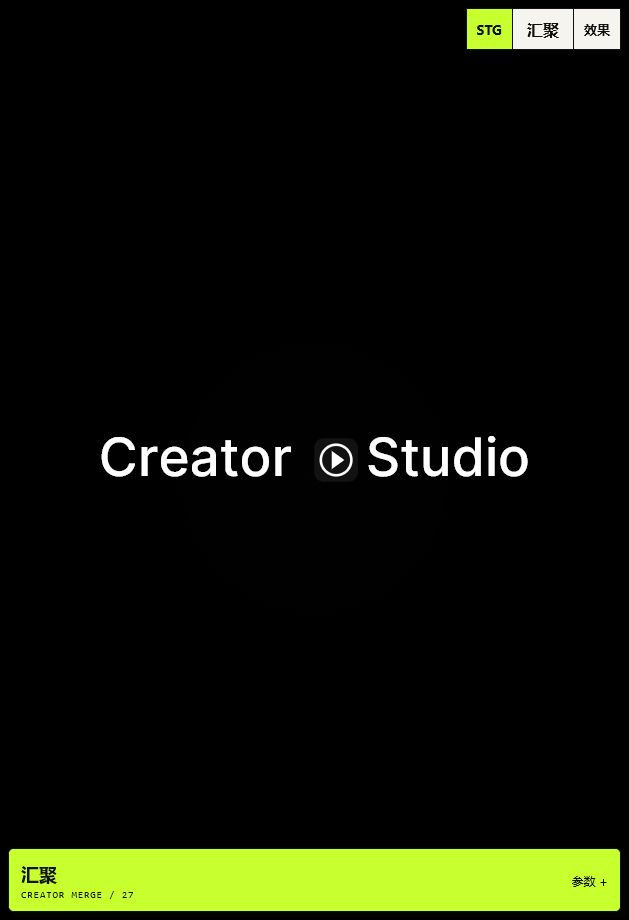
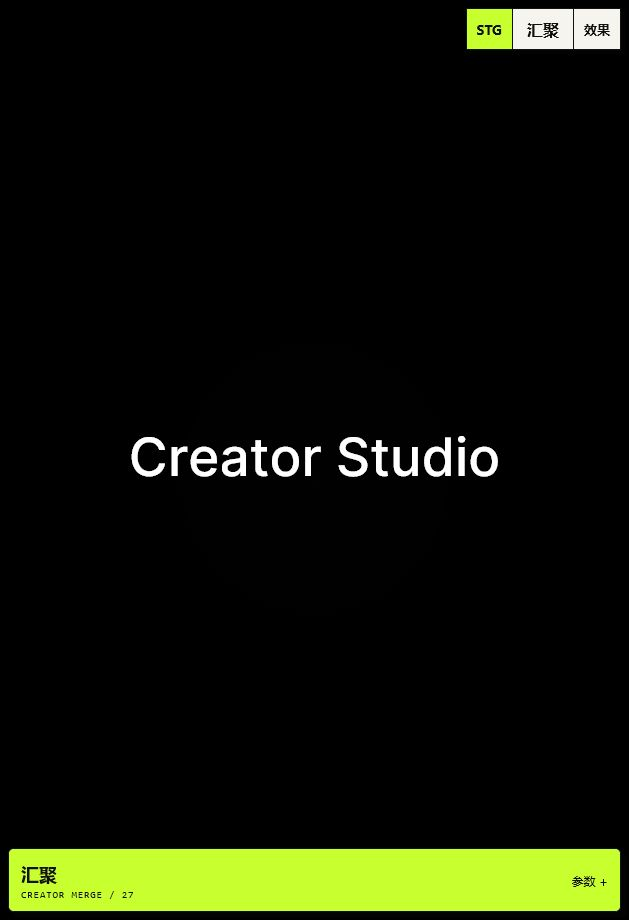
Add editable ticker speed timeline

Changed region(s): [[0.151, 0.4565, 0.8458, 0.5174]]

diff --git a/site/creatorstudio.js b/site/creatorstudio.js
@@ -14,11 +14,15 @@
     scrollSpeed: $("#scrollSpeed"), settleDuration: $("#settleDuration"),
     glitchDuration: $("#glitchDuration"), finalDuration: $("#finalDuration"),
     activeScale: $("#activeScale"), inactiveScale: $("#inactiveScale"),
-    inactiveOpacity: $("#inactiveOpacity"), scrollEase: $("#scrollEase"),
+    inactiveOpacity: $("#inactiveOpacity"),
     fragmentStrength: $("#fragmentStrength"), fragmentJitter: $("#fragmentJitter"),
     assetItemScale: $("#assetItemScale"),
     assetOffsetX: $("#assetOffsetX"), assetOffsetY: $("#assetOffsetY")
   };
+  const scrollSegments = [1, 2, 3, 4].map((index) => ({
+    duration: $(`#scrollSegment${index}Duration`),
+    speed: $(`#scrollSegment${index}Speed`)
+  }));
 
   const fontPresets = {
     "snap-inter-medium": { family: "Continuation Inter Medium", weight: 500, style: "normal" },
@@ -284,12 +288,49 @@
     context.restore();
   }
 
+  function readScrollCurve() {
+    const overall = Math.max(.25, Number(inputs.scrollSpeed.value));
+    const segments = scrollSegments.map((segment) => ({
+      duration: Math.max(.05, Number(segment.duration.value) / 1000),
+      speed: Math.max(.1, Number(segment.speed.value))
+    }));
+    const baseDuration = segments.reduce((sum, segment) => sum + segment.duration, 0);
+    const startSpeed = 0;
+    let previousSpeed = startSpeed;
+    let totalWeight = 0;
+    segments.forEach((segment) => {
+      totalWeight += segment.duration * (previousSpeed + segment.speed) / 2;
+      previousSpeed = segment.speed;
+    });
+    return {
+      overall, segments, baseDuration, startSpeed,
+      duration: baseDuration / overall,
+      totalWeight: Math.max(.0001, totalWeight)
+    };
+  }
+
+  function scrollCurveProgress(elapsed, curve) {
+    let remaining = clamp01(elapsed / curve.duration) * curve.baseDuration;
+    let travelled = 0;
+    let previousSpeed = curve.startSpeed;
+    for (const segment of curve.segments) {
+      const used = Math.min(segment.duration, Math.max(0, remaining));
+      const progress = used / segment.duration;
+      travelled += segment.duration * (
+        previousSpeed * progress + (segment.speed - previousSpeed) * progress * progress / 2
+      );
+      remaining -= used;
+      if (used < segment.duration) break;
+      previousSpeed = segment.speed;
+    }
+    return clamp01(travelled / curve.totalWeight);
+  }
+
   function choreographyTiming() {
-    const speed = Math.max(.25, Number(inputs.scrollSpeed.value));
-    const scrollSeconds = Math.max(.1, (parseRows().length - 1) * .1 / speed);
+    const scrollCurve = readScrollCurve();
     const duration = [
       Number(inputs.introDuration.value) / 1000,
-      scrollSeconds,
+      scrollCurve.duration,
       Number(inputs.settleDuration.value) / 1000,
       Number(inputs.glitchDuration.value) / 1000,
       Number(inputs.finalDuration.value) / 1000
@@ -301,7 +342,7 @@
       return end[index];
     }, 0);
     return {
-      cycle, duration,
+      cycle, duration, scrollCurve,
       introEnd: end[0], scrollEnd: end[1], settleEnd: end[2],
       glitchEnd: end[3], finalEnd: end[4]
     };
@@ -366,7 +407,6 @@
     const activeScale = Number(inputs.activeScale.value) / 100;
     const inactiveScale = Number(inputs.inactiveScale.value) / 100;
     const inactiveOpacity = Number(inputs.inactiveOpacity.value) / 100;
-    const easeMix = Number(inputs.scrollEase.value) / 100;
 
     context.font = `${preset.style} ${preset.weight} ${fontPx}px "${preset.family}", "Continuation SC", sans-serif`;
     context.textAlign = "left";
@@ -412,9 +452,7 @@
     }
 
     if (localTime < timing.scrollEnd) {
-      const raw = rangeProgress(localTime, timing.introEnd, timing.scrollEnd);
-      const fluid = .5 - Math.cos(Math.PI * raw) / 2;
-      const progress = lerp(raw, fluid, easeMix);
+      const progress = scrollCurveProgress(localTime - timing.introEnd, timing.scrollCurve);
       drawTicker((rows.length - 1) * progress, false);
       return;
     }
@@ -527,6 +565,19 @@
   function updateOutputs() {
     const timing = choreographyTiming();
     const formatSeconds = (seconds) => `${seconds < 1 ? seconds.toFixed(2) : seconds.toFixed(1)}秒`;
+    let curveElapsed = 0;
+    timing.scrollCurve.segments.forEach((segment, index) => {
+      const actualDuration = segment.duration / timing.scrollCurve.overall;
+      const rangeStart = curveElapsed;
+      curveElapsed += actualDuration;
+      $(`#scrollSegment${index + 1}RangeOut`).textContent = `${rangeStart.toFixed(2)}–${curveElapsed.toFixed(2)}秒`;
+      $(`#scrollSegment${index + 1}DurationOut`).textContent = `${Math.round(segment.duration * 1000)}ms`;
+      $(`#scrollSegment${index + 1}SpeedOut`).textContent = `${segment.speed.toFixed(2)}×`;
+      const bar = $(`#speedCurveBar${index + 1}`);
+      bar.style.flexGrow = String(segment.duration);
+      bar.style.setProperty("--curve-speed", String(Math.min(1, segment.speed / 3)));
+    });
+    $("#scrollCurveTotalOut").textContent = formatSeconds(timing.scrollCurve.duration);
     const values = {
       fontSizeOut: inputs.fontSize.value,
       lineGapOut: inputs.lineGap.value,
@@ -541,7 +592,6 @@
       activeScaleOut: `${inputs.activeScale.value}%`,
       inactiveScaleOut: `${inputs.inactiveScale.value}%`,
       inactiveOpacityOut: `${inputs.inactiveOpacity.value}%`,
-      scrollEaseOut: `${inputs.scrollEase.value}%`,
       fragmentStrengthOut: `${inputs.fragmentStrength.value}%`,
       fragmentJitterOut: inputs.fragmentJitter.value
     };
@@ -550,6 +600,10 @@
   }
 
   Object.values(inputs).forEach((input) => input.addEventListener("input", updateOutputs));
+  scrollSegments.forEach((segment) => {
+    segment.duration.addEventListener("input", updateOutputs);
+    segment.speed.addEventListener("input", updateOutputs);
+  });
   [inputs.assetItemScale, inputs.assetOffsetX, inputs.assetOffsetY].forEach((input) => {
     input.addEventListener("input", updateSelectedAsset);
   });

diff --git a/site/creatorstudio.html b/site/creatorstudio.html
@@ -41,7 +41,7 @@ Logic Pro</textarea>
 
       <section class="scene-grid creator-scene-grid">
         <label>最终标题
-          <input id="finalTitle" type="text" value="Creator {{play}}Studio" spellcheck="false">
+          <input id="finalTitle" type="text" value="Creator Studio" spellcheck="false">
         </label>
         <label>播放方式
           <select id="motionMode">
@@ -145,6 +145,38 @@ Logic Pro</textarea>
             <input id="finalDuration" type="range" min="200" max="6000" step="25" value="700">
           </label>
         </div>
+        <section class="speed-timeline" aria-labelledby="speedTimelineTitle">
+          <div class="speed-timeline-head">
+            <div><b id="speedTimelineTitle">滚轮速度时间线</b><small>每段分别控制时间与快慢</small></div>
+            <output id="scrollCurveTotalOut">0.90秒</output>
+          </div>
+          <div class="speed-curve" id="speedCurve" aria-hidden="true">
+            <span id="speedCurveBar1"></span><span id="speedCurveBar2"></span><span id="speedCurveBar3"></span><span id="speedCurveBar4"></span>
+          </div>
+          <div class="speed-segment-grid">
+            <article class="speed-segment">
+              <header><b>01 起步</b><output id="scrollSegment1RangeOut">0.00–0.15秒</output></header>
+              <label>持续 <output id="scrollSegment1DurationOut">150ms</output><input id="scrollSegment1Duration" type="range" min="50" max="1200" step="25" value="150"></label>
+              <label>段末速度 <output id="scrollSegment1SpeedOut">0.85×</output><input id="scrollSegment1Speed" type="range" min="0.1" max="3" step="0.05" value="0.85"></label>
+            </article>
+            <article class="speed-segment">
+              <header><b>02 加速</b><output id="scrollSegment2RangeOut">0.15–0.40秒</output></header>
+              <label>持续 <output id="scrollSegment2DurationOut">250ms</output><input id="scrollSegment2Duration" type="range" min="50" max="1200" step="25" value="250"></label>
+              <label>段末速度 <output id="scrollSegment2SpeedOut">1.45×</output><input id="scrollSegment2Speed" type="range" min="0.1" max="3" step="0.05" value="1.45"></label>
+            </article>
+            <article class="speed-segment">
+              <header><b>03 滑行</b><output id="scrollSegment3RangeOut">0.40–0.75秒</output></header>
+              <label>持续 <output id="scrollSegment3DurationOut">350ms</output><input id="scrollSegment3Duration" type="range" min="50" max="1200" step="25" value="350"></label>
+              <label>段末速度 <output id="scrollSegment3SpeedOut">1.15×</output><input id="scrollSegment3Speed" type="range" min="0.1" max="3" step="0.05" value="1.15"></label>
+            </article>
+            <article class="speed-segment">
+              <header><b>04 收尾</b><output id="scrollSegment4RangeOut">0.75–0.90秒</output></header>
+              <label>持续 <output id="scrollSegment4DurationOut">150ms</output><input id="scrollSegment4Duration" type="range" min="50" max="1200" step="25" value="150"></label>
+              <label>段末速度 <output id="scrollSegment4SpeedOut">0.10×</output><input id="scrollSegment4Speed" type="range" min="0.1" max="3" step="0.05" value="0.10"></label>
+            </article>
+          </div>
+          <p class="hint">例如把“02 加速”设得更快、“04 收尾”设得更慢，就能明确控制第几秒加速、第几秒减速。四段速度会连续衔接。</p>
+        </section>
         <p class="hint">两段参考视频使用同一套帧：慢动作版约为正常版 2.48 倍。这里默认采用正常版时间。</p>
       </section>
 
@@ -161,9 +193,6 @@ Logic Pro</textarea>
             </label>
             <label>邻项透明度 <output id="inactiveOpacityOut">28%</output>
               <input id="inactiveOpacity" type="range" min="0" max="80" value="28">
-            </label>
-            <label>滚轮柔和度 <output id="scrollEaseOut">72%</output>
-              <input id="scrollEase" type="range" min="0" max="100" value="72">
             </label>
             <label>碎片强度 <output id="fragmentStrengthOut">88%</output>
               <input id="fragmentStrength" type="range" min="0" max="140" value="88">

diff --git a/site/creatorstudio.css b/site/creatorstudio.css
@@ -29,6 +29,100 @@
 
 .creator-panel .quick-grid label { min-height: 58px; }
 
+.speed-timeline {
+  margin-top: 12px;
+  padding: 10px;
+  border: 1px solid #111;
+  background: #e7e6df;
+}
+
+.speed-timeline-head,
+.speed-segment header {
+  display: flex;
+  align-items: baseline;
+  justify-content: space-between;
+  gap: 8px;
+}
+
+.speed-timeline-head div { display: grid; gap: 2px; }
+.speed-timeline-head b { font-size: 12px; }
+.speed-timeline-head small { color: #66665f; font-size: 9px; }
+.speed-timeline-head > output {
+  padding: 3px 6px;
+  color: #111;
+  border: 1px solid #111;
+  background: #c1ff1a;
+  font: 700 10px/1 "Continuation IBM Plex Mono", monospace;
+}
+
+.speed-curve {
+  display: flex;
+  align-items: end;
+  gap: 2px;
+  height: 42px;
+  margin: 9px 0;
+  padding: 4px;
+  border: 1px solid #111;
+  background: #111;
+}
+
+.speed-curve span {
+  min-width: 8px;
+  height: calc(7px + var(--curve-speed, .5) * 27px);
+  background: #c1ff1a;
+  transition: height 120ms linear, flex-grow 120ms linear;
+}
+
+.speed-curve span:nth-child(2) { background: #e8ef42; }
+.speed-curve span:nth-child(3) { background: #53dcb0; }
+.speed-curve span:nth-child(4) { background: #4f9bff; }
+
+.speed-segment-grid {
+  display: grid;
+  grid-template-columns: 1fr 1fr;
+  gap: 6px;
+}
+
+.speed-segment {
+  min-width: 0;
+  padding: 7px;
+  border: 1px solid #9d9c94;
+  background: #f4f3ed;
+}
+
+.speed-segment header {
+  margin-bottom: 6px;
+  padding-bottom: 5px;
+  border-bottom: 1px solid #c6c5bd;
+}
+
+.speed-segment header b { font-size: 10px; }
+.speed-segment header output {
+  color: #5f5f58;
+  font: 9px/1 "Continuation IBM Plex Mono", monospace;
+}
+
+.speed-segment label {
+  display: grid;
+  grid-template-columns: 1fr auto;
+  align-items: center;
+  gap: 4px;
+  margin-top: 5px;
+  font-size: 9px;
+}
+
+.speed-segment label output {
+  color: #333;
+  font: 9px/1 "Continuation IBM Plex Mono", monospace;
+}
+
+.speed-segment input[type="range"] {
+  grid-column: 1 / -1;
+  width: 100%;
+}
+
+.speed-timeline > .hint { margin: 9px 0 0; }
+
 .creator-panel .formula {
   color: #77776f;
   line-height: 1.55;
